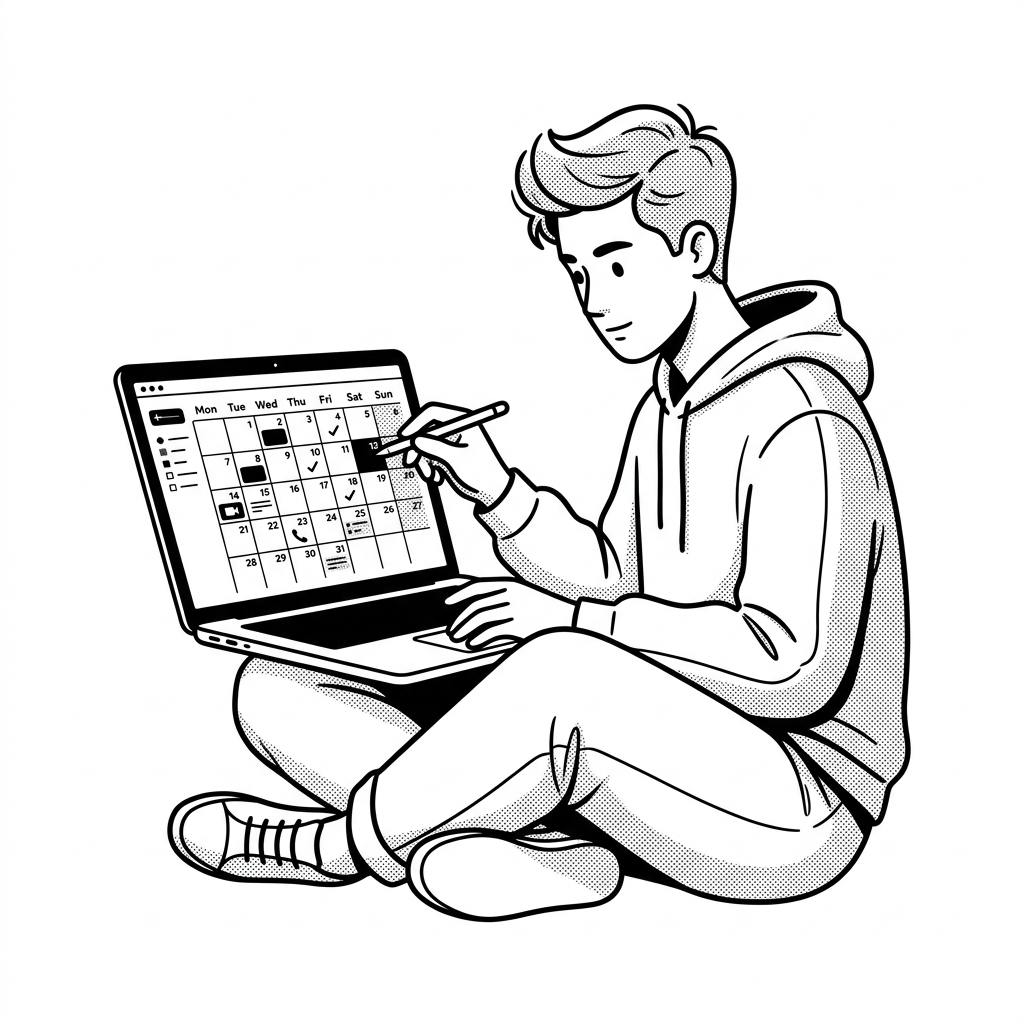
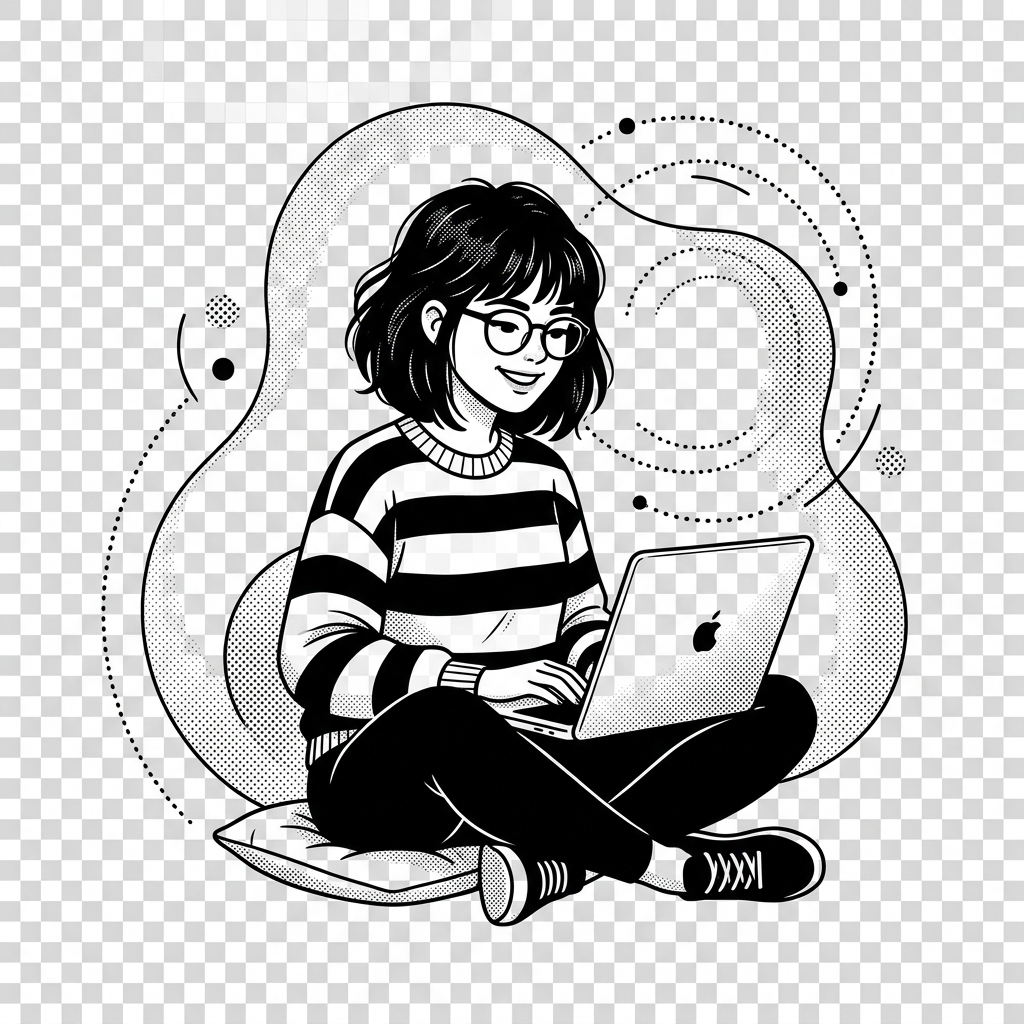
fix: traduccion a español y mejor ilustracion

diff --git a/frontend/src/presentacion/screens/LoginScreen.tsx b/frontend/src/presentacion/screens/LoginScreen.tsx
@@ -118,10 +118,10 @@ export const LoginScreen = ({ navigation }: any) => {
             
             <View style={styles.welcomeTextContainer}>
               <Text style={[typography.h1, { color: '#FFF', fontSize: 38, textAlign: 'left', fontWeight: '800' }]}>
-                Be organized.
+                Organízate.
               </Text>
               <Text style={[typography.h1, { color: colors.textTitle, fontSize: 38, textAlign: 'left', fontWeight: '800' }]}>
-                Start Now.
+                Empieza ya.
               </Text>
             </View>
 
@@ -135,15 +135,15 @@ export const LoginScreen = ({ navigation }: any) => {
 
             <View style={styles.welcomeBottomBar}>
               <TouchableOpacity style={styles.pillButtonDark} onPress={() => switchView('login')}>
-                <Text style={[typography.h3, { color: '#FFF', fontSize: 16, fontWeight: '700', letterSpacing: 1 }]}>LOG IN</Text>
+                <Text style={[typography.h3, { color: '#FFF', fontSize: 16, fontWeight: '700', letterSpacing: 1 }]}>INGRESAR</Text>
               </TouchableOpacity>
               
               <Text style={[typography.body, { color: 'rgba(255,255,255,0.8)', textAlign: 'center', marginVertical: 15, fontSize: 14 }]}>
-                Don't have an account?
+                ¿No tienes una cuenta?
               </Text>
 
               <TouchableOpacity style={styles.pillButtonDark} onPress={() => switchView('register')}>
-                <Text style={[typography.h3, { color: '#FFF', fontSize: 16, fontWeight: '700', letterSpacing: 1 }]}>SIGN UP</Text>
+                <Text style={[typography.h3, { color: '#FFF', fontSize: 16, fontWeight: '700', letterSpacing: 1 }]}>REGISTRARSE</Text>
               </TouchableOpacity>
             </View>
           </SafeAreaView>
@@ -155,7 +155,7 @@ export const LoginScreen = ({ navigation }: any) => {
             <SafeAreaView style={{ paddingTop: 10 }}>
               <TouchableOpacity style={styles.backButton} onPress={() => switchView('welcome')}>
                 <Feather name="chevron-left" size={20} color="#FFF" />
-                <Text style={[typography.body, { color: '#FFF', marginLeft: 2, fontSize: 14, fontWeight: '600' }]}>Back</Text>
+                <Text style={[typography.body, { color: '#FFF', marginLeft: 2, fontSize: 14, fontWeight: '600' }]}>Atrás</Text>
               </TouchableOpacity>
             </SafeAreaView>
 
@@ -163,18 +163,18 @@ export const LoginScreen = ({ navigation }: any) => {
               <View style={{ flex: 1, paddingBottom: 10 }}>
                 
                 <Text style={[typography.h1, styles.title]}>
-                  {viewState === 'login' ? 'Log In' : 'Create Account'}
+                  {viewState === 'login' ? 'Ingresar' : 'Crear Cuenta'}
                 </Text>
 
                 {/* Formulario Registro */}
                 {viewState === 'register' && (
                   <>
                     <View style={styles.inputContainer}>
-                      <Text style={styles.inputLabel}>Empresa Name</Text>
+                      <Text style={styles.inputLabel}>Nombre de la Empresa</Text>
                       <View style={styles.inputWrapper}>
                         <TextInput
                           style={styles.input}
-                          placeholder="E.g. Barbería VIP"
+                          placeholder="Ej. Barbería VIP"
                           placeholderTextColor={colors.textSubtitle}
                           value={nombreEmpresa}
                           onChangeText={setNombreEmpresa}
@@ -183,11 +183,11 @@ export const LoginScreen = ({ navigation }: any) => {
                     </View>
 
                     <View style={[styles.inputContainer, { marginTop: 15 }]}>
-                      <Text style={styles.inputLabel}>Email Address</Text>
+                      <Text style={styles.inputLabel}>Correo Electrónico</Text>
                       <View style={styles.inputWrapper}>
                         <TextInput
                           style={styles.input}
-                          placeholder="hello@flowy.com"
+                          placeholder="hola@flowy.com"
                           placeholderTextColor={colors.textSubtitle}
                           keyboardType="email-address"
                           autoCapitalize="none"
@@ -198,11 +198,11 @@ export const LoginScreen = ({ navigation }: any) => {
                     </View>
 
                     <View style={[styles.inputContainer, { marginTop: 15 }]}>
-                      <Text style={styles.inputLabel}>Username</Text>
+                      <Text style={styles.inputLabel}>Nombre de Usuario</Text>
                       <View style={styles.inputWrapper}>
                         <TextInput
                           style={styles.input}
-                          placeholder="flowy_user"
+                          placeholder="usuario_flowy"
                           placeholderTextColor={colors.textSubtitle}
                           autoCapitalize="none"
                           value={username}
@@ -216,7 +216,7 @@ export const LoginScreen = ({ navigation }: any) => {
                 {/* Formulario Login */}
                 {viewState === 'login' && (
                   <View style={[styles.inputContainer, { marginTop: 25 }]}>
-                    <Text style={styles.inputLabel}>Username or Email</Text>
+                    <Text style={styles.inputLabel}>Usuario o Correo</Text>
                     <View style={styles.inputWrapper}>
                       <TextInput
                         style={styles.input}
@@ -232,7 +232,7 @@ export const LoginScreen = ({ navigation }: any) => {
 
                 {/* Password Input */}
                 <View style={[styles.inputContainer, { marginTop: 15 }]}>
-                  <Text style={styles.inputLabel}>Password</Text>
+                  <Text style={styles.inputLabel}>Contraseña</Text>
                   <View style={styles.inputWrapper}>
                     <TextInput
                       style={styles.input}
@@ -252,12 +252,12 @@ export const LoginScreen = ({ navigation }: any) => {
                       <Feather name="check" size={12} color="#FFF" />
                     </View>
                     <Text style={[typography.caption, { color: colors.textSubtitle, marginLeft: 8, fontSize: 12 }]}>
-                      {viewState === 'login' ? 'Remember me' : 'I agree to the Terms'}
+                      {viewState === 'login' ? 'Recordarme' : 'Acepto los términos'}
                     </Text>
                   </TouchableOpacity>
                   {viewState === 'login' && (
                     <TouchableOpacity>
-                      <Text style={[typography.caption, { color: colors.primary, fontWeight: '600', fontSize: 12 }]}>Forgot password?</Text>
+                      <Text style={[typography.caption, { color: colors.primary, fontWeight: '600', fontSize: 12 }]}>¿Olvidó su contraseña?</Text>
                     </TouchableOpacity>
                   )}
                 </View>
@@ -270,7 +270,7 @@ export const LoginScreen = ({ navigation }: any) => {
                 >
                   {isLoading ? <ActivityIndicator color="#FFF" /> : (
                     <Text style={[typography.h3, { color: '#FFF', fontSize: 16 }]}>
-                      {viewState === 'login' ? 'Log In' : 'Sign Up'}
+                      {viewState === 'login' ? 'Ingresar' : 'Registrarse'}
                     </Text>
                   )}
                 </TouchableOpacity>
@@ -279,7 +279,7 @@ export const LoginScreen = ({ navigation }: any) => {
                 <View style={styles.separatorContainer}>
                   <View style={styles.separatorLine} />
                   <Text style={[typography.caption, { color: colors.textSubtitle, marginHorizontal: 15, fontSize: 11 }]}>
-                    Or continue with
+                    O continúa con
                   </Text>
                   <View style={styles.separatorLine} />
                 </View>
